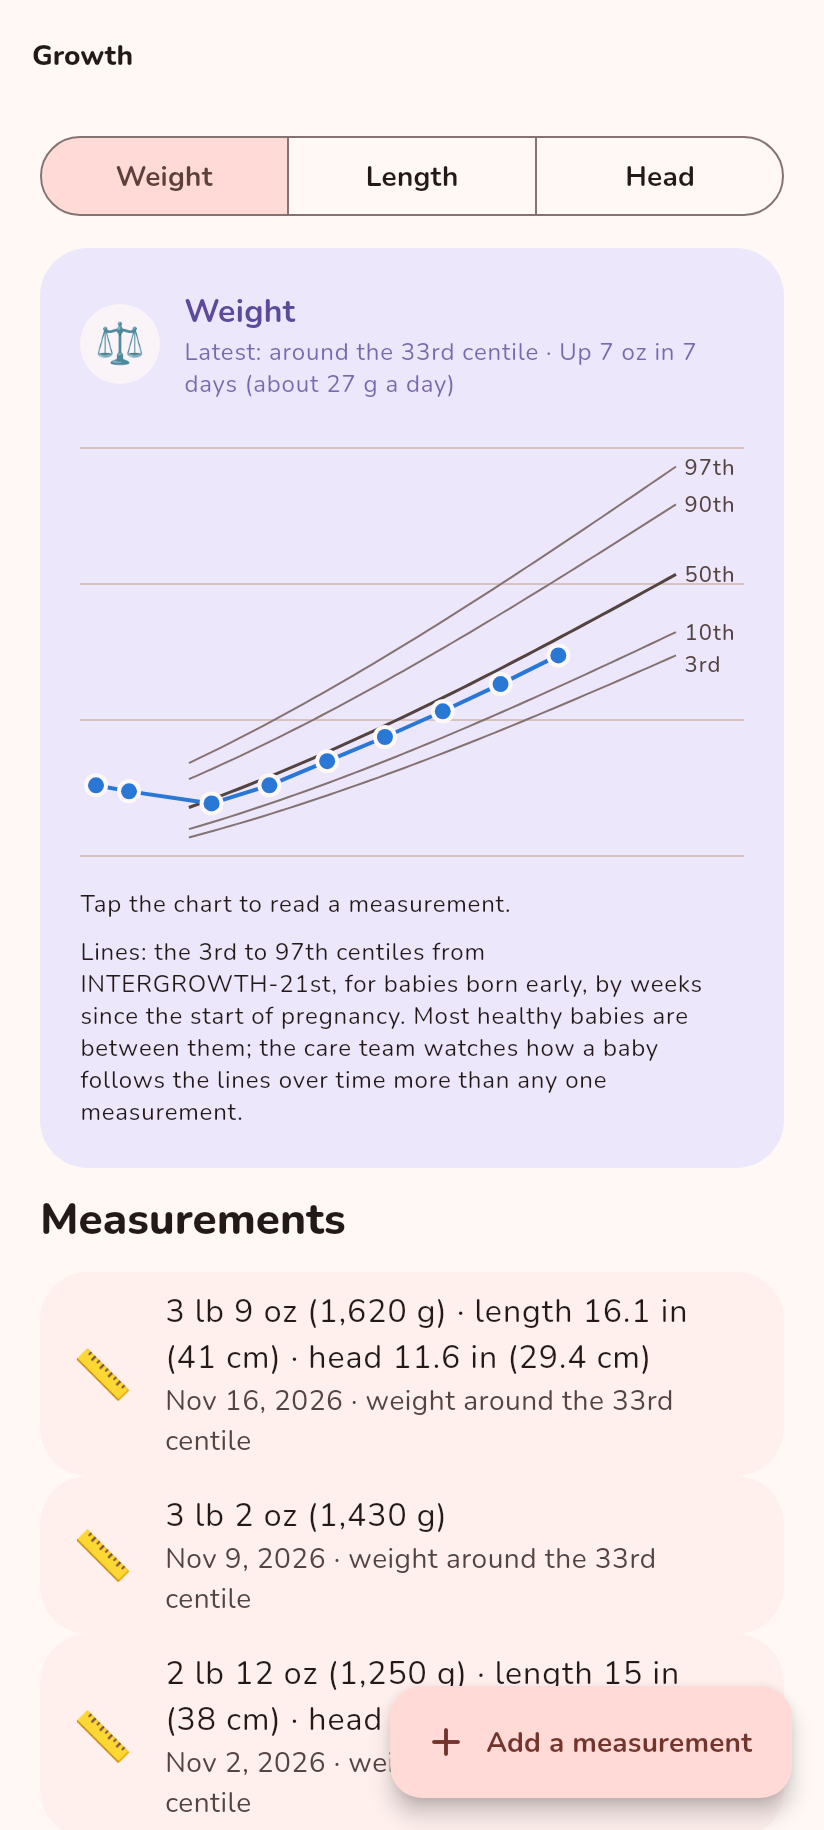
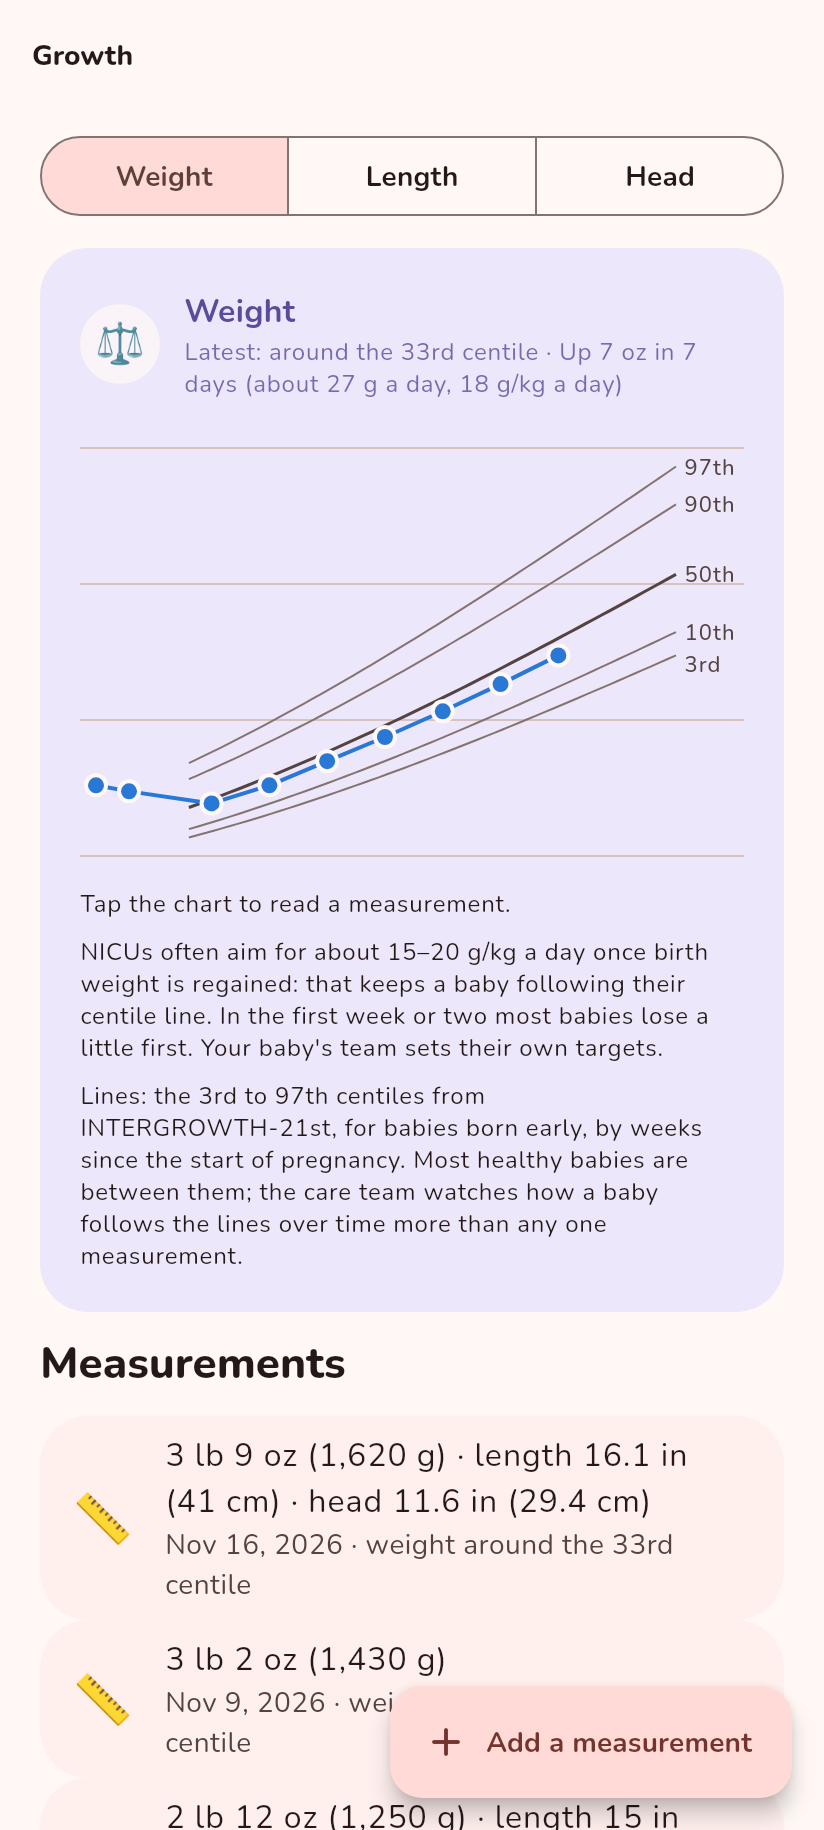
Early Bloom: 1.18 features and refreshed screenshots
The page now mentions timing contractions live, the parent's own
appointments, weight gain in g/kg a day and the "Road to home" card,
all in production since 1.18. Two gallery shots are regenerated from
the app (tool/screenshots in the app repo): the journal, which now
lists "Your appointments", and baby's growth chart, which now shows
g/kg a day. The other six are unchanged.

Claude-Session: https://claude.ai/code/session_01KWMgQ7sXPWK8vjnxtNr6Rb

diff --git a/early-bloom.html b/early-bloom.html
@@ -176,7 +176,7 @@
                             <h3 class="font-semibold text-brand-900">Journal &amp; Care-Team Report</h3>
                         </div>
                         <p class="text-brand-500 leading-relaxed text-sm">
-                            Log contractions, blood pressure, blood sugar, bleeding, symptoms, mood and notes, and count kicks live. Add photos of pads to a bleed: they stay out of your gallery, and only you and your partner see them. Keep a list of questions, and <strong class="text-brand-800">email a report to your care team</strong> from your own email app.
+                            Log blood pressure, blood sugar, bleeding, symptoms, mood and notes, and time contractions and count kicks live. Add photos of pads to a bleed: they stay out of your gallery, and only you and your partner see them. Keep your own appointments and the questions to ask at them, and <strong class="text-brand-800">email a report to your care team</strong> from your own email app.
                         </p>
                     </div>
                     <div class="bg-brand-50 rounded-2xl p-7 border border-brand-100 shadow-sm">
@@ -198,7 +198,7 @@
                             <h3 class="font-semibold text-brand-900">After the Birth</h3>
                         </div>
                         <p class="text-brand-500 leading-relaxed text-sm">
-                            Baby's age three ways: actual, corrected and postmenstrual. Log feeds, pumping and diapers, timed live or afterwards, with daily totals and a milk stash. <strong class="text-brand-800">Growth charts made for babies born early</strong>, then WHO by corrected age; medicines with reminders on both parents' phones, appointments, vaccines, and NICU days and firsts.
+                            Baby's age three ways: actual, corrected and postmenstrual. Log feeds, pumping and diapers, timed live or afterwards, with daily totals and a milk stash. <strong class="text-brand-800">Growth charts made for babies born early</strong>, then WHO by corrected age, with weight gain in g/kg a day. While baby is in the NICU, Road to home shows progress on what NICUs look for before discharge. Medicines with reminders on both parents' phones, appointments, vaccines, and NICU days and firsts.
                         </p>
                     </div>
                     <div class="bg-brand-50 rounded-2xl p-7 border border-brand-100 shadow-sm">
@@ -293,7 +293,7 @@
                     <figcaption class="text-xs text-brand-500 mt-3 text-center leading-snug">Baby's growth from your scans, with today's estimate</figcaption>
                 </figure>
                 <figure class="snap-center shrink-0 w-56 md:w-auto">
-                    <img src="early-bloom-shots/journal.png" width="412" height="915" loading="lazy" alt="The journal: logs, questions, scans, medicines and hospital stays" class="w-full h-auto rounded-2xl border border-brand-100 shadow-md bg-white">
+                    <img src="early-bloom-shots/journal.png" width="412" height="915" loading="lazy" alt="The journal: logs, appointments, questions, scans, medicines and hospital stays" class="w-full h-auto rounded-2xl border border-brand-100 shadow-md bg-white">
                     <figcaption class="text-xs text-brand-500 mt-3 text-center leading-snug">The journal: logs, questions, scans, medicines and hospital stays</figcaption>
                 </figure>
                 <figure class="snap-center shrink-0 w-56 md:w-auto">
